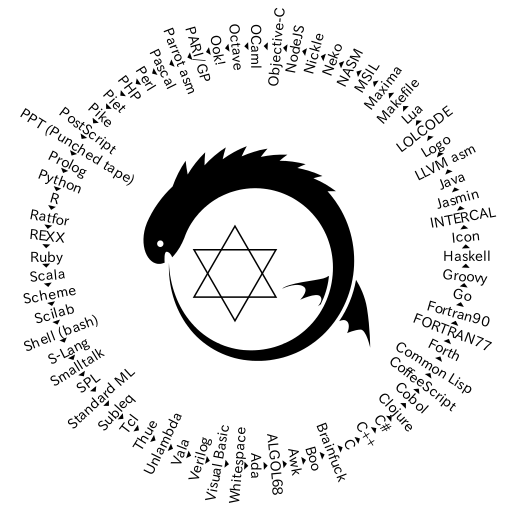
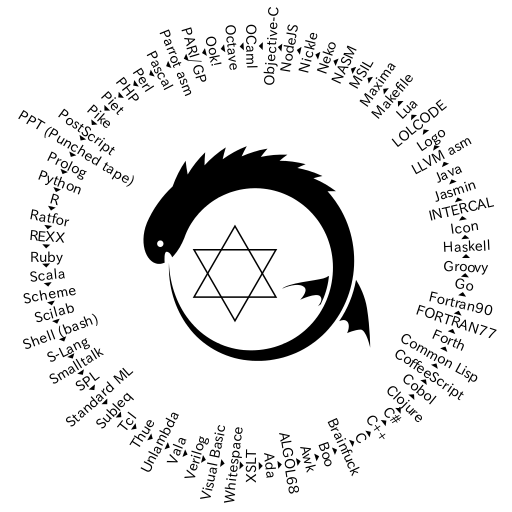
* the 69th language: XSLT

Changed region(s): [[0.0312, 0.0, 0.9688, 1.0], [0.0625, 0.4062, 0.0938, 0.4688], [0.125, 0.8125, 0.1562, 0.8438]]

diff --git a/QR.rb b/QR.rb
@@ -2,58 +2,59 @@ eval$s=%q(eval(%w(B=92.chr;g=32.chr;puts(eval(%q(N=10.chr;n=0;e=->s{Q[Q[s,B],?"]
 "{s.K(t){t+t}};Q=->s,t=?${s.K(t){B+$&}};M=->s{"<stdio.h>#{N}!t~mX{puts#{E[s]};return~0;}"};V=->s,a,z{s.K(/(#{B*4})+/){a+"#{
 $&.size/2}"+z}};C="Console.Write";$D="program~QR";%(object~QR~extends~App{#{%((display~"#{e[%[echo~-En~"#{Q[e[e["Transcript
 ~show:~'#{d[%(H#{Q[E[%(fun~p~n=Z(Int.toSJ~n`x5e"~");p~0;p~0;p~130;List.tabulate(127,p);SJ.map(fn~c=>(p(3+ord~c);Z"-1~0~";c)
-)#{E[%(proc~f~{n}~{sJ~repeat~"Y"~$n};puts~a::=` x7e[reK  ~-all~{.  }~"#{V[Q[e[%(!t~mX{Z#{d[E[%(module~QR;!itial~beg!~$H("#{
-o="";%(Module~QR:Sub~MX:Dim~s,n,i,c~As ~Obje   ct:n     =Chr      (10):For~Each~c~!"#{d[%(with~Ada.Text_Io;procedure~qr~is~
-beg!~Ada.Text_Io.Put_L!e("#{d[%(Z("#  {d[     %                            (BEGIN{s=#{E[%(f={n~as~!t|'Y'*n};a=0;s=#{V[Q[E["
-#!clude"+M["#!clude<iostream >`n!t    ~                                   mX{std::cout<<#{E[%(class~Program{public~static~v
-oid~MX{System.#{C+E[(%((dos  eq[                                                    s(lazy-cat["IDENTIFICATION~DIVISION.""P
-ROGRAM-ID.~QR.""PROCEDURE~    D                                                    IVISION."'DISPLA`x59](map~#(str"~~~~^""(
-.replace~%1"^"""^"^"")"^"                                                                 &")(re-seq~#".{1,45}""#{e[%((f=(n
-)->Array(n+1).jo!~"Y");c                                                                 onsole.log("%s",#{V[E[%((H-l!e"#{e
-[%(~:~A~."#{g*9}"~;~:~B                                                                       ~A~."~WRITE(*,*)'"~A~;~:~C~B~
-T`x59PE~."~'"~CR~;~:~D                                                                       ~S"~#$D"~C~S^"~Z~^"(&"~C~S^"~#
-{e[%(package~ma!;imp                                    ort"fmt";                                func~mX{fmt.Pr!t#{E[%(Z'#{
-e[("ma!=putStr"+E[                              %(procedure~mX;i:=c:=0;s:                       =#{E[%(.class~public~QR`n.s
-uper~#{$T="java/i                           o/Pr!tStream"}`n.method~public~sta                   tic~ma!([L#{S="java/lang/"
-}SJ;)V~;]`n.lim                         it~stack~2`ngetstatic~#{S}System/out~L#$T                  ;`nldc~"#{e[%(class~QR{p
-ublic~static~v                        oid~ma!(SJ[]v){SJ~c[]=new~SJ[8000],y="",z=y,s=                "#{z=t=(0..r=q=126).map
-{|n|[n,[]]};a                       ="";b=->n{a<<(n%78+55)%84+42};(%(@s=global[#{i=(s=               %(PR~"`x48AI^~1.2~PR~"
-VISIBLE^~"#{                      Q["Z"+E[%(all:`n`t@echo~'#{d["l!el:99999;Z#{E[%(.asse               mbly~t{}.method~stati
-c~void~MX{.                      entrypo!t~ldstr"#{e[%(m:db`x60#{e[s="$Z#{E[%(Zf#{E["requ              ire('util').Z#{E["#i
-mport"+M["                     Z_sJ"+E[%(s=toascii# {E["Z#{E[%(say"#{e["#$D(output);beg!~H             (#{((p="eval";%($_="
-#{s=%(<?ph                    p~function~f($n){ret   urn~str_repeat("Y",$n);};$f="f";$z=3+$w            =strlen($s=#{V[Q[E[
-"!t~mX{H#                    {E[%((___________)du  p  ~=/s(|~~~~~.~~~|)def(#{Q["qr:-H('#{Q[e[            %(for~c~!"".jo!(["
-say~'%s'^                   n"%l~for~l~!#{E[d[%(  eva  l$s=%q(#$s)),?']]}.split("^n")]):Z('ca            t("r=fput(char(%d)
-)^n")'%or       d(         c))`nZ('cat("end^n")  '))],  ?']}').",B]}){9~7{exch~dup~1~and~79~mu            l~32~add~exch~2~i
-div~3~1~r                 oll~s~exch~2~!dex~ex  ch~put~  1~sub~dup~6~eq{1~sub}if}repeat~s~=~pop           ~pop}forall~=~qui
-t)]};retur               n~0;}"]]                                     ,"{$f(",")}"]})*3;echo"^x           89PNG^r^n^x1a^n";
-$m="";$t="^        xc0  ^0^xff";fo  r($i=-1  ;$i<128*$z;$m  .=$c--?  ($w-$c||$i>$z)&&$i/$z<($c<$          w?ord($s[(!t)($c/
-3)]):$c--%3+       2)?$t[2].$t[$c%3  %2].$  t[$c%3]:"^0^0^0  ":"^0  ")$c=++$i%$z;foreach(array("          I`x48DR".pack("NN
-CV",$w+2,128,8,   2),"IDAT".gzcompre  ss(  $m),"IEND")as$d)e  cho  ~pack("NA*N",strlen($d)-4,$d,          crc32($d));?>);(s
-+N*(-s.size%6)).unpac k("B*")[0].K(/.  {  6}/){n=$&.to_i~2;((  n  +14)/26*6+n+47).chr}}";s|.|$n=          ord$&;substr~unpa
-ck(B8,chr$n-!t($n/32) *6-41),2|eg;Z~pa   ck"B*",$_).scan(/[~,-   :A-z]+|(.)/){p="s++#{$1?"chr~#{          $1.ord}+e":$&+?+}
-;"+p};p)).K(/.{1,255} /){|s|"'#{s}',"  }  }'')end."]}"`nend)]  }  ;quit"]};t=num2cell(b=11     -          ceil(s/13));for~n
-=1:9m={};for~i=1:141f  =@(x,y,n)repm  at(  ["Ook"~x~"~Ook"~y  ~32  ],[1~abs(n)]               )          ;  m(i)=[f(z=46,63
-,n)~f(q=z-(i<13)*13,q, i-13)~f(33,z  ,1)~f  (63,z,n)];end;t  (x)=m  (diff([0                  ~          s   (x=b==n)])+13)
-;end;Zf(strjo!(t,"")))  ]]]}"]})+N  ]};"+N]  }`x60`nglobal  ~_start  `n_start:mov~e          d          x     ,#{s.size}`nm
-ov~ecx,m`nmov~ebx,1`nmo v~eax,4`n                                     !t~128`nmov~           e          b      x,0`nmov~eax
-,1`n!t~128)]}"call~void  ~[mscorlib]System.Con  sole::W  rite(sJ)ret})]};quit();", ?$].K(?' )          {       "'^''"}}')].
-K(/[:"]/,":^0"),/[~Y`t;"  (){}`[`]]/]}"~PR~"`x4  bT`x4  8`x58B`x59E~B`x59E)).size+1}x~i8]c "          #         {s.K(/[^"]/
-){"^%`x58"%$&.ord}}^00"de  clare~i32@puts(i8*)de  f!e  ~i32@mX{%1=call~i32@puts(i8*geteleme          n          tptr([#{i}x
-~i8]*@s,i32~0,i32~0))ret~i  32~0})).bytes{|n|r,z=  z  [n]||(b[r/78];b[r];q<6083&&z[n]=[q+=          1           ,[]];t[n])}
-;b[r/78];b[r]}";!t~i=0,n=0,   q=0;for(;++n<126;)c[   n]=""+(char)n;for(;i<s.length();){q           =             q*78+(s.ch
-arAt(i)-13)%84;if(i++%2>0){y   =q<n?c[q]:y;c[n++]=z +y.charAt(0);System.out.Z(z=c[q]);q           =              0;}}}})]}"
-`n!vokevirtual~#$T/Zln(L#{S}S    J;)V`nreturn`n.end~method)+N]};H("DO,1<-#"||*s);s?wh           ile~t:=          ord(move(1
-))do{i+:=1;u:=-i;every~0to~7do{    u:=u*2+t%2;t/:=2};H("PLEASE")^(i%4/3);H("DO,1SUB           #"||i||"<          -#"||((c-u
-)%256));c:=u;};H("PLEASEREADOUT,      1^nPLEASEGIVEUP");end)]).tr(B,?&)]}'.tr('&            ','YY');)]};})]}"~D  UP~FOR~S"~
-&A,&"~C~NE`x58T~S^"~&A)^",&"~C~0~D       O~B~."~&char("~COUNT~.~."~),&'"~CR~L             OOP~S^"~&^"^""~C~S"~en  d~#$D"~C~
-A~."~STOP"~CR~A~."~END"~CR~B`x59E~;~D        ~)]}"))],'#{f(',')}']}))]}")               )["~~~~^"~^".""STOP~RUN.  "])](Zln(
-str"#{g*8}"s)))))]};}})]};}"]]],"$(f(",             "))"]};for~i~                    !~range(len(s)):b~as~!t=s[i];a-=b;Z(('
-+'*-a~if~0>a~else'-'*a)+'.');a=b;).tr~B,?`x                                       21]};K(/`x21/,"Y",s);Z~s})]}"))]}");end;)
-]}":s="~~~":For~i=0To~7:s~&=Chr(32-(Asc(c)>>7-i                              ~And~1)*23):Next:#{C}(s~&n~&Chr(9)&n~&"~~"):Ne
-xt:#{C}(n~&n~&n):End~Sub:End~Module).K(/.{,8000}/){o<<                ?,+E[$&]+N;"%s"}}"#{o});end~endmodule)],?%]};return~0
-;}).reverse],/[`[`]$]/],"[f~",?]]}"~^x60.&]k^n::=^na)]};Z"0~0~-1";)]]};),?']}';cr"]]]}"|sed~-E~-e~'s/([`x5eY]|Y.){1,120}/Zf
-("%s","^0");^n/g'].K(/.{1,3000}/){%(Zf("%s","#{d[d[$&],?']}")`n)}+"quit"]}")).K(/.{,50000}/){%(Z("#{e[$&]}");)}}})).gsub(/[
-!HJKXYZ^`~]/){[B*2,:write,B,:tring,:gsub,"ain()",B*4,:print,g,:in][$&.ord%47%12]})))*"")#_buffer_for_future_bug_fixes_#_buf
-#_buffer_for_future_bug_fixes_#_buffer_for_future_bug_fixes_#_buffer_for_future_bug_fixes_#_buffer_for_future_bug_fixes_#_b
+)#{E[%(proc~f~{n}~{sJ~repeat~"Y"~$n};puts~a::=`x7e[reK~-all~{.}~"#{V[Q[e[%(!t~mX{Z#{d[E[%(module~QR;!itial~beg!~$H("#{o="";
+%(Module~QR:Sub~MX:Dim~s,n,i,c~As~Object:n=Chr( 10):For  ~Each~c~  !"#{d["<?xml#{O="~version='1.0'"}?><?xml-#{I="stylesheet
+"}~type='text/xsl'href='QR.xslt'?><xsl :#{I+   O}~x     mlns      :xsl='http://www.w3.org/1999/`x58SL/Transform'><xsl:outpu
+t~method='text'/><#{U="xsl:template"  }~m     a                            tch='/'><`x21[CDATA[#{%(with~Ada.Text_Io;procedu
+re~qr~is~beg!~Ada.Text_Io.Pu t_L!e    (                                   "#{d[%(Z("#{d[%(BEGIN{s=#{E[%(f={n~as~!t|'Y'*n};a
+=0;s=#{V[Q[E["#!clude"+M["#  !cl                                                    ude<iostream>`n!t~mX{std::cout<<#{E[%(c
+lass~Program{public~static    ~                                                    void~MX{System.#{C+E[(%((doseq[s(lazy-ca
+t["IDENTIFICATION~DIVISIO                                                                 N.""PROGRAM-ID.~QR.""PROCEDURE~DI
+VISION."'DISPLA`x59](map                                                                 ~#(str"~~~~^""(.replace~%1"^"""^"^
+"")"^"&")(re-seq~#".{1,                                                                       45}""#{e[%((f=(n)->Array(n+1)
+.jo!~"Y");console.log(                                                                       "%s",#{V[E[%((H-l!e"#{e[%(~:~A
+~."#{g*9}"~;~:~B~A~.                                    "~WRITE(*                                ,*)'"~A~;~:~C~B~T`x59PE~."
+~'"~CR~;~:~D~S"~#$                              D"~C~S^"~Z~^"(&"~C~S^"~#{                       e[%(package~ma!;import"fmt"
+;func~mX{fmt.Pr!t                           #{E[%(Z'#{e[("ma!=putStr"+E[%(proc                   edure~mX;i:=c:=0;s:=#{E[%(
+.class~public~Q                         R`n.super~#{$T="java/io/Pr!tStream"}`n.me                  thod~public~static~ma!([
+L#{S="java/lan                        g/"}SJ;)V~;]`n.limit~stack~2`ngetstatic~#{S}Sy                stem/out~L#$T;`nldc~"#{
+e[%(class~QR{                       public~static~void~ma!(SJ[]v){SJ~c[]=new~SJ[8000],               y="",z=y,s="#{z=t=(0..
+r=q=126).map                      {|n|[n,[]]};a="";b=->n{a<<(n%78+55)%84+42};(%(@s=glob               al[#{i=(s=%(PR~"`x48A
+I^~1.2~PR~"                      VISIBLE^~"#{Q["Z"+E[%(all:`n`t@echo~'#{d["l!el:99999;Z#{              E[%(.assembly~t{}.me
+thod~stati                     c~void~MX{.entrypo!t ~ldstr"#{e[%(m:db`x60#{e[s="$Z#{E[%(Zf             #{E["require('util')
+.Z#{E["#im                    port"+M["Z_sJ"+E[%(s   =toascii#{E["Z#{E[%(say"#{e["#$D(output            );beg!~H(#{((p="eva
+l";%($_="                    #{s=%(<?php~function  ~  f($n){return~str_repeat("Y",$n);};$f="f            ";$z=3+$w=strlen($
+s=#{V[Q[E                   ["!t~mX{H#{E[%((____  ___  ____)dup~=/s(|~~~~~.~~~|)def(#{Q["qr:-            H('#{Q[e[%(for~c~!
+"".jo!(["       sa         y~'%s'^n"%l~for~l~!#  {E[d[  %(eval$s=%q(#$s)),?']]}.split("^n")]):            Z('cat("r=fput(ch
+ar(%d))^n                 ")'%ord(c))`nZ('cat(  "end^n"  )'))],?']}').",B]}){9~7{exch~dup~1~and           ~79~mul~32~add~ex
+ch~2~idiv~               3~1~roll                                     ~s~exch~2~!dex~exch~put~1           ~sub~dup~6~eq{1~s
+ub}if}repea        t~s  ~=~pop~pop  }forall  ~=~quit)]};re  turn~0;  }"]],"{$f(",")}"]})*3;echo"          ^x89PNG^r^n^x1a^n
+";$m="";$t="       ^xc0^0^xff";for(  $i=-1  ;$i<128*$z;$m.=  $c--?  ($w-$c||$i>$z)&&$i/$z<($c<$w          ?ord($s[(!t)($c/3
+)]):$c--%3+2)?$   t[2].$t[$c%3%2].$t  [$c  %3]:"^0^0^0":"^0"  )$c  =++$i%$z;foreach(array("I`x48          DR".pack("NNCV",$
+w+2,128,8,2),"IDAT".g zcompress($m),"  I  END")as$d)echo~pack  (  "NA*N",strlen($d)-4,$d,crc32($          d));?>);(s+N*(-s.
+size%6)).unpack("B*") [0].K(/.{6}/){n=   $&.to_i~2;((n+14)/26*   6+n+47).chr}}";s|.|$n=ord$&;sub          str~unpack(B8,chr
+$n-!t($n/32)*6-41),2| eg;Z~pack"B*",$  _  ).scan(/[~,-:A-z]+|  (  .)/){p="s++#{$1?"chr~#{$     1          .ord}+e":$&+?+};"
++p};p)).K(/.{1,255}/)  {|s|"'#{s}',"  }}'  ')end."]}"`nend)]  };q  uit"]};t=num               2          c  ell(b=11-ceil(s
+/13));for~n=1:9m={};fo r~i=1:141f=@  (x,y,  n)repmat(["Ook"  ~x~"~  Ook"~y~3                  2          ]   ,[1~abs(n)]);m
+(i)=[f(z=46,63,n)~f(q=  z-(i<13)*1  3,q,i-1  3)~f(33,z,1)~  f(63,z,  n)];end;t(x)=m          (          d     iff([0~s(x=b=
+=n)])+13);end;Zf(strjo! (t,"")))]                                     ]]}"]})+N]};           "          +      N]}`x60`nglo
+bal~_start`n_start:mov~  edx,#{s.size}`nmov~ec  x,m`nmo  v~ebx,1`nmov~eax,4`n!t~12 8`nmov~e b          x       ,0`nmov~eax,
+1`n!t~128)]}"call~void~[  mscorlib]System.Conso  le::W  rite(sJ)ret})]};quit();",?$].K(?') {          "         '^''"}}')].
+K(/[:"]/,":^0"),/[~Y`t;"(  ){}`[`]]/]}"~PR~"`x4b  T`x  48`x58B`x59E~B`x59E)).size+1}x~i8]c"          #          {s.K(/[^"]/
+){"^%`x58"%$&.ord}}^00"dec  lare~i32@puts(i8*)def  !  e~i32@mX{%1=call~i32@puts(i8*getelem          e           ntptr([#{i}
+x~i8]*@s,i32~0,i32~0))ret~i   32~0})).bytes{|n|r,z   =z[n]||(b[r/78];b[r];q<6083&&z[n]=[           q             +=1,[]];t[
+n])};b[r/78];b[r]}";!t~i=0,n   =0,q=0;for(;++n<126; )c[n]=""+(char)n;for(;i<s.length();           )              {q=q*78+(s
+.charAt(i)-13)%84;if(i++%2>0)    {y=q<n?c[q]:y;c[n++]=z+y.charAt(0);System.out.Z(z=c[           q]);q=0          ;}}}})]}"`
+n!vokevirtual~#$T/Zln(L#{S}SJ;)    V`nreturn`n.end~method)+N]};H("DO,1<-#"||*s);s?w           hile~t:=o          rd(move(1)
+)do{i+:=1;u:=-i;every~0to~7do{u:      =u*2+t%2;t/:=2};H("PLEASE")^(i%4/3);H("DO,            1SUB#"||i||"<-#"||(  (c-u)%256)
+);c:=u;};H("PLEASEREADOUT,1^nPLEAS       EGIVEUP");end)]).tr(B,?&)]}'.tr('&',             'YY');)]};})]}"~DUP~FO  R~S"~&A,&
+"~C~NE`x58T~S^"~&A)^",&"~C~0~DO~B~."~        &char("~COUNT~.~."~),&'"~CR~               LOOP~S^"~&^"^""~C~S"~end  ~#$D"~C~A
+~."~STOP"~CR~A~."~END"~CR~B`x59E~;~D~)]             }"))],'#{f(',                    ')}']}))]}"))["~~~~^"~^".""STOP~RUN."]
+)](Zln(str"#{g*8}"s)))))]};}})]};}"]]],"$(f                                       (","))"]};for~i~!~range(len(s)):b~as~!t=s
+[i];a-=b;Z(('+'*-a~if~0>a~else'-'*a)+'.');a=b;)                              .tr~B,?`x21]};K(/`x21/,"Y",s);Z~s})]}"))]}");e
+nd;)}]]></#{U}></xsl:#{I}>"].K~N,'"&~VbLf~&"'}":s="~~~                ":For~i=0To~7:s~&=Chr(32-(Asc(c)>>7-i~And~1)*23):Next
+:#{C}(s~&n~&Chr(9)&n~&"~~"):Next:#{C}(n~&n~&n):End~Sub:End~Module).K(/.{,8000}/){o<<?,+E[$&]+N;"%s"}}"#{o});end~endmodule)]
+,?%]};return~0;}).reverse],/[`[`]$]/],"[f~",?]]}"~^x60.&]k^n::=^na)]};Z"0~0~-1";)]]};),?']}';cr"]]]}"|sed~-E~-e~'s/([`x5eY]
+|Y.){1,120}/Zf("%s","^0");^n/g'].K(/.{1,3000}/){%(Zf("%s","#{d[d[$&],?']}")`n)}+"quit"]}")).K(/.{,50000}/){%(Z("#{e[$&]}");
+)}}})).gsub(/[!HJKXYZ^`~]/){[B*2,:write,B,:tring,:gsub,"ain()",B*4,:print,g,:in][$&.ord%47%12]})))*"")#_buffer_for_future_b
 ######################  Quine Relay -- Copyright (c) 2013, 2014 Yusuke Endoh (@mametter), @hirekoke  #####################)

diff --git a/src/code-gen.rb b/src/code-gen.rb
@@ -643,6 +643,26 @@ class Ada < CodeGen
   end
 end
 
+class XSLT < CodeGen
+  File = "QR.xslt"
+  Cmd = "xsltproc QR.xslt > OUTFILE"
+  Apt = "xsltproc"
+  def code
+    <<-'END'.lines.map {|l| l.strip }.join.gsub("$$$", "\n")
+      "
+        <?xml#{O=" version='1.0'"}?>$$$
+        <?xml-#{I="stylesheet"} type='text/xsl'href='QR.xslt'?>$$$
+        <xsl:#{I+O} xmlns:xsl='http://www.w3.org/1999/XSL/Transform'>
+          <xsl:output method='text'/>
+          <#{U="xsl:template"} match='/'>
+            <![CDATA[#{PREV}]]>
+          </#{U}>
+        </xsl:#{I}>
+      "
+    END
+  end
+end
+
 class VisualBasic_Whitespace < CodeGen
   Name = ["Visual Basic", "Whitespace"]
   File = ["QR.vb", "QR.ws"]
@@ -657,7 +677,7 @@ class VisualBasic_Whitespace < CodeGen
         Sub Main()
           Dim s,n,i,c As Object
           n=Chr(10)
-          For Each c in"#{d[PREV]}"
+          For Each c in"#{d[PREV].gsub N,'"& VbLf &"'}"
             s="   "
             For i=0To 7
                 s &=Chr(32-(Asc(c)>>7-i And 1)*23)

diff --git a/README.md b/README.md
@@ -5,7 +5,7 @@
 This is a Ruby program that generates
 Scala program that generates
 Scheme program that generates
-...(through 68 languages in total)...
+...(through 69 languages in total)...
 REXX program that generates
 the original Ruby code again.
 
@@ -30,7 +30,7 @@ First, you have to type the following apt-get command to install all of them.
       mlton mono-devel mono-mcs mono-vbnc nasm neko nickle nodejs ocaml \
       octave open-cobol openjdk-6-jdk pari-gp parrot perl php5-cli pike7.8 \
       python r-base ratfor regina-rexx ruby2.0 scala scilab slsh spl-core \
-      swi-prolog tcl ucblogo valac
+      swi-prolog tcl ucblogo valac xsltproc
 
 Then, you have to build the bundled interpreters.
 
@@ -63,7 +63,8 @@ If you could do it, please let me know.  Good luck.
     $ valac QR.vala && ./QR > QR.v
     $ iverilog -o QR QR.v && ./QR -vcd-none > QR.vb
     $ vbnc QR.vb && mono ./QR.exe > QR.ws
-    $ ruby vendor/whitespace.rb QR.ws > qr.adb
+    $ ruby vendor/whitespace.rb QR.ws > QR.xslt
+    $ xsltproc QR.xslt > qr.adb
     $ gnatmake qr.adb && ./qr > QR.a68
     $ a68g QR.a68 > QR.awk
     $ awk -f QR.awk > QR.boo
@@ -149,58 +150,59 @@ I used the following Ubuntu deb packages to test this program.
 15 |Verilog            |iverilog       |0.9.7-1
 16 |Visual Basic       |mono-vbnc      |3.0~pre20130627.4dcc70f-1
 17 |Whitespace         |*N/A*          |-
-18 |Ada                |gnat           |4.6ubuntu4
-19 |ALGOL68            |algol68g       |2.4.1-1
-20 |Awk                |gawk           |1:4.0.1+dfsg-2.1ubuntu2
-21 |Boo                |boo            |0.9.5~git20110729.r1.202a430-2
-22 |Brainfuck          |bf             |20041219ubuntu5
-23 |C                  |gcc            |4:4.8.2-1ubuntu6
-24 |C++                |g++            |4:4.8.2-1ubuntu6
-25 |C#                 |mono-mcs       |3.2.8+dfsg-4ubuntu1
-26 |Clojure            |clojure1.4     |1.4.0+dfsg-3
-27 |Cobol              |open-cobol     |1.1-1build1
-28 |CoffeeScript       |coffeescript   |1.4.0-1
-29 |Common Lisp        |clisp          |1:2.49-9ubuntu1
-30 |Forth              |gforth         |0.7.0+ds2-0.1
-31 |FORTRAN77          |f2c            |20100827-1
-32 |Fortran90          |gfortran       |4:4.8.2-1ubuntu6
-33 |Go                 |golang         |2:1.2.1-2ubuntu1
-34 |Groovy             |groovy         |2.0.0~beta2+isreally1.8.6-0ubuntu1
-35 |Haskell            |ghc            |7.6.3-10
-36 |Icon               |icont          |9.4.3-4.2ubuntu1
+18 |XSLT               |xsltproc       |1.1.28-2build1
+19 |Ada                |gnat           |4.6ubuntu4
+20 |ALGOL68            |algol68g       |2.4.1-1
+21 |Awk                |gawk           |1:4.0.1+dfsg-2.1ubuntu2
+22 |Boo                |boo            |0.9.5~git20110729.r1.202a430-2
+23 |Brainfuck          |bf             |20041219ubuntu5
+24 |C                  |gcc            |4:4.8.2-1ubuntu6
+25 |C++                |g++            |4:4.8.2-1ubuntu6
+26 |C#                 |mono-mcs       |3.2.8+dfsg-4ubuntu1
+27 |Clojure            |clojure1.4     |1.4.0+dfsg-3
+28 |Cobol              |open-cobol     |1.1-1build1
+29 |CoffeeScript       |coffeescript   |1.4.0-1
+30 |Common Lisp        |clisp          |1:2.49-9ubuntu1
+31 |Forth              |gforth         |0.7.0+ds2-0.1
+32 |FORTRAN77          |f2c            |20100827-1
+33 |Fortran90          |gfortran       |4:4.8.2-1ubuntu6
+34 |Go                 |golang         |2:1.2.1-2ubuntu1
+35 |Groovy             |groovy         |2.0.0~beta2+isreally1.8.6-0ubuntu1
+36 |Haskell            |ghc            |7.6.3-10
+37 |Icon               |icont          |9.4.3-4.2ubuntu1
    |                   |iconx          |9.4.3-4.2ubuntu1
-37 |INTERCAL           |intercal       |29:0.29-3
-38 |Jasmin             |jasmin-sable   |2.4.0-3
-39 |Java               |openjdk-6-jdk  |6b33-1.13.5-1ubuntu0.14.04
-40 |LLVM asm           |llvm           |1:3.4-0ubuntu1
-41 |Logo               |ucblogo        |5.5-2.1
-42 |LOLCODE            |*N/A*          |-
-43 |Lua                |lua5.2         |5.2.3-1
-44 |Makefile           |make           |3.81-8.2ubuntu3
-45 |Maxima             |maxima         |5.32.1-1
-46 |MSIL               |mono-devel     |3.2.8+dfsg-4ubuntu1
-47 |NASM               |nasm           |2.10.09-1
-48 |Neko               |neko           |2.0.0-3
-49 |Nickle             |nickle         |2.77-1
-50 |NodeJS             |nodejs         |0.10.25~dfsg2-2ubuntu1
-51 |Objective-C        |gobjc          |4:4.8.2-1ubuntu6
-52 |OCaml              |ocaml          |4.01.0-3ubuntu3
-53 |Octave             |octave         |3.8.1-1ubuntu1
-54 |Ook!               |*N/A*          |-
-55 |PARI/GP            |pari-gp        |2.5.5-1
-56 |Parrot asm         |parrot         |5.9.0-1build1
-57 |Pascal             |fp-compiler    |2.6.2-8
-58 |Perl               |perl           |5.18.2-2ubuntu1
-59 |PHP                |php5-cli       |5.5.9+dfsg-1ubuntu4.4
-60 |Piet               |*N/A*          |-
-61 |Pike               |pike7.8        |7.8.700-7
-62 |PostScript         |ghostscript    |9.10~dfsg-0ubuntu10.2
-63 |PPT (Punched tape) |bsdgames       |2.17-21
-64 |Prolog             |swi-prolog     |6.6.4-2ubuntu1
-65 |Python             |python         |2.7.5-5ubuntu3
-66 |R                  |r-base         |3.0.2-1ubuntu1
-67 |Ratfor             |ratfor         |1.0-15
-68 |REXX               |regina-rexx    |3.6-2
+38 |INTERCAL           |intercal       |29:0.29-3
+39 |Jasmin             |jasmin-sable   |2.4.0-3
+40 |Java               |openjdk-6-jdk  |6b33-1.13.5-1ubuntu0.14.04
+41 |LLVM asm           |llvm           |1:3.4-0ubuntu1
+42 |Logo               |ucblogo        |5.5-2.1
+43 |LOLCODE            |*N/A*          |-
+44 |Lua                |lua5.2         |5.2.3-1
+45 |Makefile           |make           |3.81-8.2ubuntu3
+46 |Maxima             |maxima         |5.32.1-1
+47 |MSIL               |mono-devel     |3.2.8+dfsg-4ubuntu1
+48 |NASM               |nasm           |2.10.09-1
+49 |Neko               |neko           |2.0.0-3
+50 |Nickle             |nickle         |2.77-1
+51 |NodeJS             |nodejs         |0.10.25~dfsg2-2ubuntu1
+52 |Objective-C        |gobjc          |4:4.8.2-1ubuntu6
+53 |OCaml              |ocaml          |4.01.0-3ubuntu3
+54 |Octave             |octave         |3.8.1-1ubuntu1
+55 |Ook!               |*N/A*          |-
+56 |PARI/GP            |pari-gp        |2.5.5-1
+57 |Parrot asm         |parrot         |5.9.0-1build1
+58 |Pascal             |fp-compiler    |2.6.2-8
+59 |Perl               |perl           |5.18.2-2ubuntu1
+60 |PHP                |php5-cli       |5.5.9+dfsg-1ubuntu4.4
+61 |Piet               |*N/A*          |-
+62 |Pike               |pike7.8        |7.8.700-7
+63 |PostScript         |ghostscript    |9.10~dfsg-0ubuntu10.2
+64 |PPT (Punched tape) |bsdgames       |2.17-21
+65 |Prolog             |swi-prolog     |6.6.4-2ubuntu1
+66 |Python             |python         |2.7.5-5ubuntu3
+67 |R                  |r-base         |3.0.2-1ubuntu1
+68 |Ratfor             |ratfor         |1.0-15
+69 |REXX               |regina-rexx    |3.6-2
 
 Note that some languages are not available in Ubuntu (marked as *N/A*).
 This repository includes their implementations in `vendor/`.
